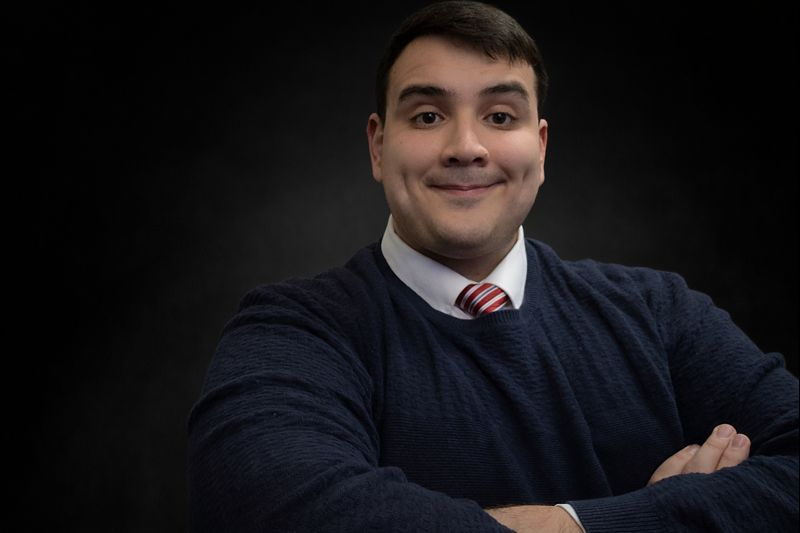
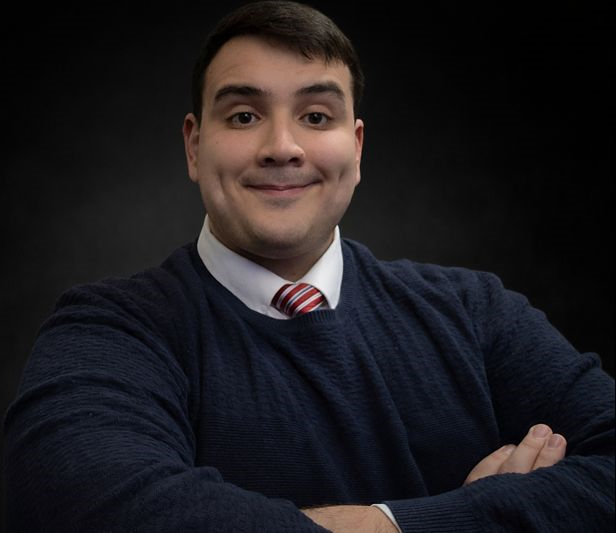
ainda com o erro do footer

diff --git a/styles/base.css b/styles/base.css
@@ -6,21 +6,20 @@
 
 :root {
     --blue: #1f567a;
-    /* parecido com o exemplo */
-    --dark: #2f2f2f;
-    --bg: #f3f4f6;
-    --card: #ffffff;
-    --border: #cfd6dd;
-    --text: #1b1b1b;
+    --nav: #2f2f2f;
+    --bg: #ffffff;
+    --border: #bfc6cd;
+    --muted: #666;
+    --yellow: #ffe65a;
 }
 
 body {
     font-family: "Roboto", Arial, sans-serif;
-    color: var(--text);
     background: var(--bg);
+    color: #111;
 }
 
-/* HEADER */
+/* HEADER*/
 .site-header {
     background: var(--blue);
 }
@@ -29,104 +28,103 @@ body {
     display: block;
     /* requisito */
     text-align: center;
-    color: white;
-    font-size: 1.2rem;
-    padding: 1rem;
-}
-
-/* NAV com FLEX */
-.site-nav {
-    background: var(--dark);
-    display: flex;
-    justify-content: space-around;
-    gap: 0.5rem;
-    flex-wrap: wrap;
-}
-
-.site-nav a {
-    color: white;
-    text-decoration: none;
-    padding: 0.9rem 1rem;
-    display: block;
+    color: #fff;
+    padding: 1.2rem 1rem;
+    font-size: 1.25rem;
     font-weight: 700;
 }
 
-/* Hover bem visível (requisito) */
+/* NAV (Flex) */
+.site-nav {
+    background: var(--nav);
+    display: flex;
+    justify-content: space-between;
+    align-items: center;
+}
+
+.site-nav a {
+    flex: 1 1 0;
+    text-align: center;
+    color: #fff;
+    text-decoration: none;
+    padding: 0.9rem 0.75rem;
+    font-weight: 700;
+}
+
 .site-nav a:hover,
 .site-nav a:focus-visible {
     background: #444;
     outline: none;
 }
 
-/* MAIN centralizado */
+/* MAIN  */
 .container {
-    max-width: 960px;
-    margin: 1.5rem auto;
-    padding: 0 1rem;
+    max-width: 980px;
+    margin: 1.25rem auto 0;
+    padding: 0 1rem 1.5rem;
 }
 
 .page-title {
     text-align: center;
-    font-size: 2.2rem;
-    margin: 1.25rem 0 1.5rem;
+    font-size: 2.5rem;
+    font-weight: 700;
+    margin: 1rem 0 1.25rem;
 }
 
-/* CARDS em GRID */
+/*CARDS GRID*/
 .cards {
     display: grid;
-    gap: 1rem;
     grid-template-columns: 1fr;
+    gap: 0.9rem;
+    align-items: start;
+    /* importante pra não esticar estranho */
 }
 
-@media (min-width: 820px) {
+@media (min-width: 900px) {
     .cards {
         grid-template-columns: 2fr 1fr;
-        /* esquerda maior, igual ao exemplo */
+        /* esquerda maior  erro chato*/
     }
 }
 
 .card {
-    background: var(--card);
     border: 1px solid var(--border);
     border-radius: 10px;
     overflow: hidden;
+    background: #fff;
 }
 
 .card-title {
     background: var(--blue);
-    color: white;
+    color: #fff;
     text-align: center;
-    padding: 0.75rem;
-    font-size: 1.1rem;
+    padding: 0.7rem 0.8rem;
+    font-size: 1.05rem;
+    font-weight: 700;
 }
 
+/* Padding  */
 .card>*:not(.card-title) {
     padding: 1rem;
 }
 
-/* ABOUT ME layout */
+/*ABOUT ME TOP*/
 .about-top {
     display: grid;
-    grid-template-columns: 1fr;
+    grid-template-columns: 1fr auto;
     gap: 1rem;
     align-items: start;
 }
 
-@media (min-width: 520px) {
-    .about-top {
-        grid-template-columns: 1fr auto;
-        /* texto + foto */
-    }
-}
-
 .profile-img {
-    border: 1px solid var(--border);
-    border-radius: 6px;
-    width: 200px;
+    width: 180px;
     height: auto;
+    border: 1px solid var(--border);
+    background: #eee;
 }
 
-.subheading {
+/* Title “Campinas, Brazil” */
+.location-title {
     text-align: center;
     font-weight: 700;
     padding-top: 0;
@@ -138,45 +136,38 @@ body {
     margin: 0 1rem 1rem;
 }
 
+/*About me*/
 .about-bottom {
     display: grid;
-    grid-template-columns: 1fr;
+    grid-template-columns: 220px 1fr;
     gap: 1rem;
     align-items: start;
     padding-top: 0;
 }
 
-@media (min-width: 520px) {
-    .about-bottom {
-        grid-template-columns: auto 1fr;
-        /* bandeira + texto */
-    }
-}
-
 .flag-box {
     border: 1px solid var(--border);
     border-radius: 6px;
-    padding: 0.75rem;
-    background: #fff;
-    width: fit-content;
+    padding: 0.6rem;
+    text-align: center;
 }
 
 .flag-box img {
-    display: block;
-    max-width: 180px;
+    width: 100%;
     height: auto;
+    display: block;
+    border: 1px solid var(--border);
 }
 
 .flag-box figcaption {
-    font-size: 0.85rem;
-    text-align: center;
     margin-top: 0.5rem;
     color: #444;
+    font-size: 0.85rem;
 }
 
-/* RESOURCES */
+
 .resource-list {
-    padding-left: 1.2rem;
+    padding-left: 1.5rem;
     line-height: 1.9;
 }
 
@@ -184,15 +175,49 @@ body {
     color: #1a55cc;
 }
 
-/* FOOTER */
+/*Footer*/
 .site-footer {
     background: var(--blue);
-    color: white;
     text-align: center;
     padding: 1rem;
-    margin-top: 1.5rem;
 }
 
-.footer-line {
-    margin: 0.25rem 0;
+.footer-top {
+    color: #fff;
+    font-weight: 700;
+    margin-bottom: 0.25rem;
+}
+
+.footer-bottom {
+    color: var(--yellow);
+    font-weight: 700;
+    font-size: 0.95rem;
+}
+
+/*RESPONSIVE when we are 700px (mobile)*/
+@media (max-width: 700px) {
+    .site-nav {
+        flex-wrap: wrap;
+    }
+
+    .site-nav a {
+        flex: 1 1 50%;
+    }
+
+    .about-top {
+        grid-template-columns: 1fr;
+    }
+
+    .profile-img {
+        margin: 0 auto;
+    }
+
+    .about-bottom {
+        grid-template-columns: 1fr;
+    }
+
+    .flag-box {
+        max-width: 260px;
+        margin: 0 auto;
+    }
 }

diff --git a/index.html b/index.html
@@ -8,10 +8,9 @@
     <title>WDD 131 – Dynamic Web Fundamentals – Erick Seidmann</title>
 
     <meta name="description"
-        content="WDD 131 – Dynamic Web Fundamentals, Erick Seidmann, course landing page with assignments, resources, and project links." />
+        content="WDD 131 – Dynamic Web Fundamentals, Erick Seidmann, landing page with personal info and web dev resources." />
     <meta name="author" content="Erick Seidmann" />
 
-    <!-- Google Font -->
     <link rel="preconnect" href="https://fonts.googleapis.com" />
     <link rel="preconnect" href="https://fonts.gstatic.com" crossorigin />
     <link href="https://fonts.googleapis.com/css2?family=Roboto:wght@400;700&display=swap" rel="stylesheet" />
@@ -24,7 +23,7 @@
     <header class="site-header">
         <span id="course-title">WDD 131: Dynamic Web Fundamentals</span>
 
-        <nav class="site-nav" aria-label="Primary">
+        <nav class="site-nav" aria-label="Primary navigation">
             <a href="https://www.linkedin.com/" target="_blank" rel="noopener">LinkedIn</a>
             <a href="https://byupw.instructure.com/" target="_blank" rel="noopener">I-Learn</a>
             <a href="https://www.churchofjesuschrist.org/study/scriptures/bofm/1-ne/3?lang=eng&id=p7#p7" target="_blank"
@@ -37,39 +36,43 @@
         <h1 class="page-title">Erick Seidmann</h1>
 
         <div class="cards">
-            <!-- Card 1 -->
+            <!-- LEFT CARD -->
             <section class="card">
                 <h2 class="card-title">About Me</h2>
 
                 <div class="about-top">
                     <p>
-                        My name is Erick. I run a language school and I enjoy building web projects.
-                        I’m currently studying software development and practicing HTML, CSS, and JavaScript.
+                        My name is Erick. I run a language school and I enjoy building web
+                        projects. I’m currently studying software development and
+                        practicing HTML, CSS, and JavaScript.
                     </p>
 
-                    <img class="profile-img" src="images/profile.png" alt="Portrait of Erick" width="220" height="220"
+                    <img class="profile-img" src="images/profile.png" alt="Portrait of Erick" width="200" height="240"
                         loading="lazy" />
                 </div>
 
-                <h3 class="subheading">Campinas, Brazil</h3>
+                <h3 class="location-title">Campinas, Brazil</h3>
                 <hr class="divider" />
 
                 <div class="about-bottom">
                     <figure class="flag-box">
-                        <img src="images/campinas.png" alt="Brazil flag" width="160" height="100" loading="lazy" />
-                        <figcaption>Official flag of Brazil</figcaption>
+                        <img src="images/flag-brazil.jpg" alt="Official flag of Brazil" width="200" height="120"
+                            loading="lazy" />
+                        <figcaption><em>Official flag of Brazil</em></figcaption>
                     </figure>
 
                     <p>
-                        Brazil is known for its cultural diversity, beautiful landscapes, and welcoming people.
-                        I live in Campinas and enjoy learning new technologies and creating educational tools.
+                        Brazil is known for its cultural diversity, beautiful landscapes,
+                        and welcoming people. I live in Campinas and enjoy learning new
+                        technologies and creating educational tools.
                     </p>
                 </div>
             </section>
 
-            <!-- Card 2 -->
+            <!-- RIGHT CARD -->
             <section class="card">
                 <h2 class="card-title">Web Dev Resources</h2>
+
                 <ul class="resource-list">
                     <li><a href="https://dev.to/" target="_blank" rel="noopener">Dev.to Community</a></li>
                     <li><a href="https://www.smashingmagazine.com/" target="_blank" rel="noopener">Smashing Magazine</a>
@@ -77,17 +80,17 @@
                     <li><a href="https://css-tricks.com/" target="_blank" rel="noopener">CSS Tricks</a></li>
                     <li><a href="https://www.w3schools.com/" target="_blank" rel="noopener">W3 Schools</a></li>
                     <li><a href="https://www.udemy.com/" target="_blank" rel="noopener">Udemy</a></li>
-                    <li><a href="#" title="Local placeholder example">Local Placeholder Link</a></li>
+                    <li><a href="#" title="Placeholder">Lorem Picsum Image Placeholder</a></li>
                 </ul>
             </section>
         </div>
     </main>
 
     <footer class="site-footer">
-        <p class="footer-line">
-            &copy;<span id="currentyear"></span> Erick Seidmann • Brazil
+        <p class="footer-top">
+            &copy;<span id="currentyear"></span> 🌸 Erick Seidmann 🌸 Brazil
         </p>
-        <p id="lastModified" class="footer-line"></p>
+        <p id="lastModified" class="footer-bottom"></p>
     </footer>
 </body>
 

diff --git a/scripts/getdates.js b/scripts/getdates.js
@@ -1,0 +1,4 @@
+document.getElementById("currentyear").textContent = new Date().getFullYear();
+
+document.getElementById("lastModified").textContent =
+    `Last Modification: ${document.lastModified}`;
